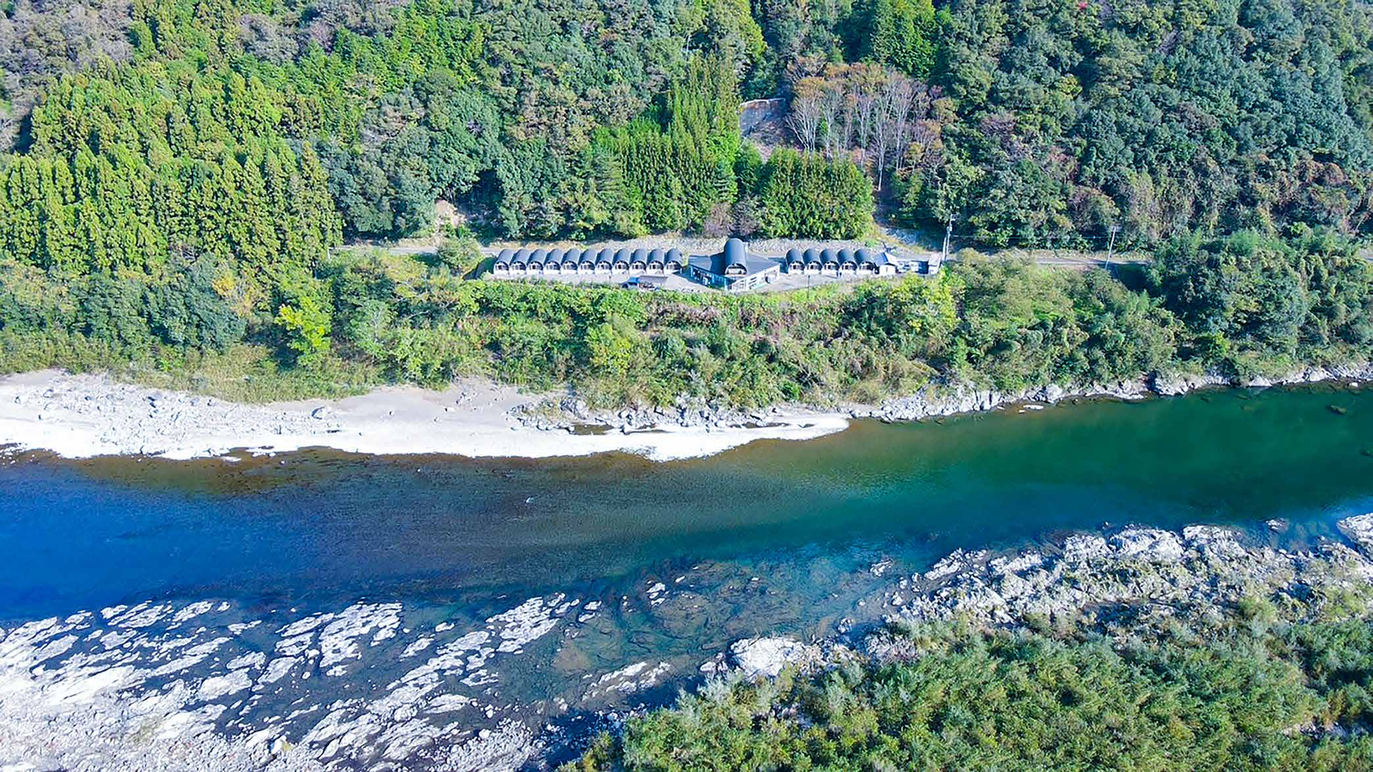
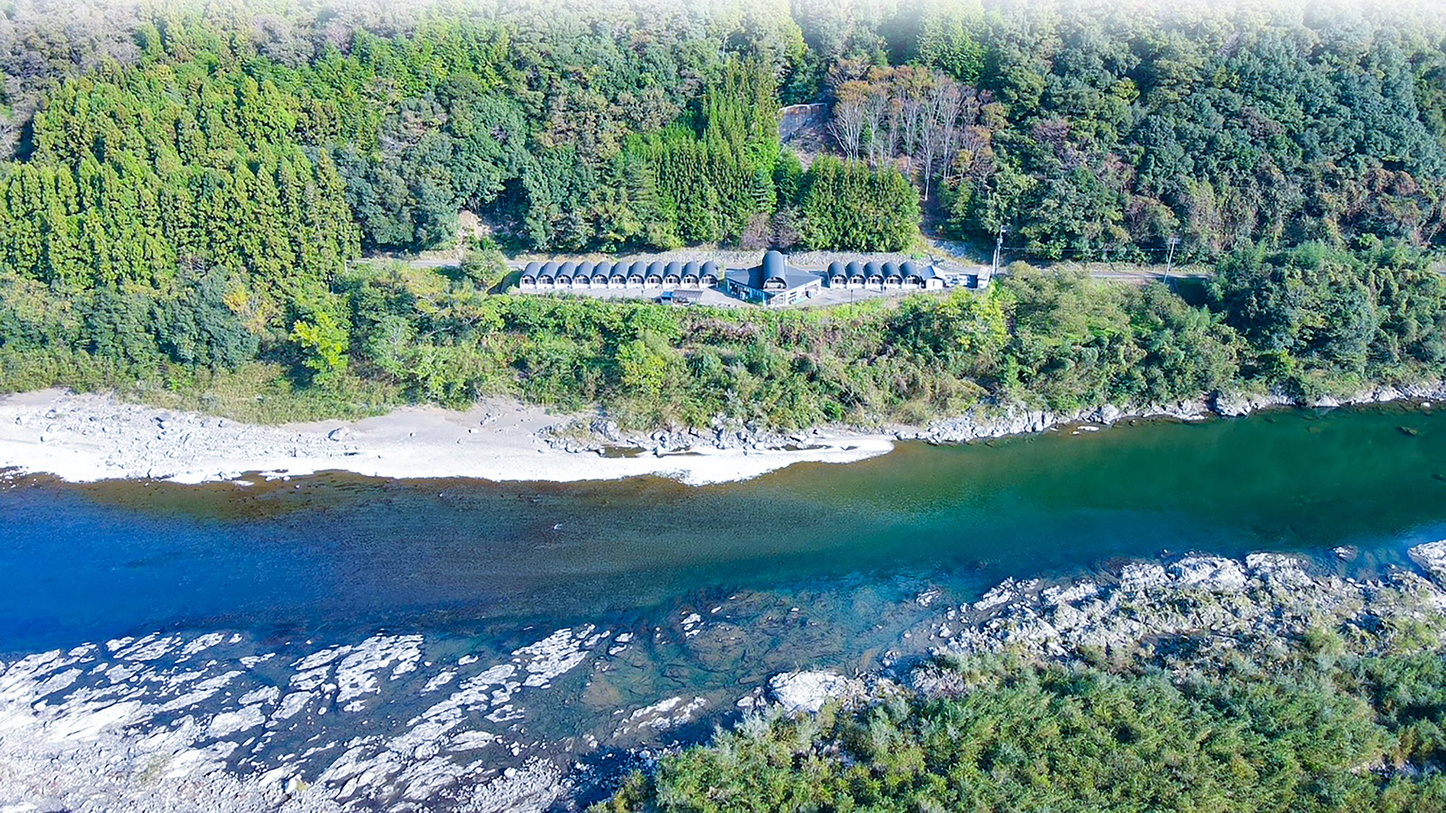
写真9点を大村さん提供の元データに差し替え、「要・元データ」の印を外した
- 共用キッチン・炊飯器・コインランドリー・キャビン玄関（室内）：パンフのEPSから
  本体画像を取り出して差し替え（153px前後 → 930〜1400px）
- ヒーロー2点・青空のキャビン・南向きの列・外観も元データに差し替え
- 差し替えた4点の figure から lowres を外した
- 埋め込み時の長辺を1600→1400に（確認用1ファイルが6.6MB→5.7MB）
- 差し替え前の9点は 01_プロジェクト/…/新サイト用画像/差し替え前_2026-09-28/ に退避

diff --git a/index.html b/index.html
@@ -264,7 +264,7 @@
           <img src="./images/room-arch.jpg" alt="アーチ天井と大きな窓のあるキャビンの内部" loading="lazy">
           <figcaption>かまぼこ型のアーチが、そのまま天井になっています</figcaption>
         </figure>
-        <figure class="ph lowres">
+        <figure class="ph">
           <img src="./images/cabin-entrance-view.jpg" alt="玄関から見たキャビンの中。天然木のフローリングと窓" loading="lazy">
           <figcaption>玄関を入ると約6畳の天然木のフローリング。陽当たり抜群の明るいお部屋</figcaption>
         </figure>
@@ -349,15 +349,15 @@
       </div>
 
       <div class="common-sub">
-        <figure class="ph lowres">
+        <figure class="ph">
           <img src="./images/flyer-common-kitchen.jpg" alt="冷蔵庫と調理台のある共用キッチン" loading="lazy">
           <figcaption>共用キッチン。調理道具も食器もそろっています</figcaption>
         </figure>
-        <figure class="ph lowres">
+        <figure class="ph">
           <img src="./images/flyer-rice-cookers.jpg" alt="炊飯器・電子レンジ・トースターの並ぶ調理台" loading="lazy">
           <figcaption>炊飯器・電子レンジ・トースター</figcaption>
         </figure>
-        <figure class="ph lowres">
+        <figure class="ph">
           <img src="./images/flyer-laundry.jpg" alt="洗濯機と乾燥機の並ぶコインランドリー" loading="lazy">
           <figcaption>大型の洗濯乾燥コインランドリー（洗剤付）</figcaption>
         </figure>

diff --git a/build_share.py b/build_share.py
@@ -220,7 +220,10 @@ IMG_REF = re.compile(r'(?:(?:src|href)=(["\'])|url\(\s*(["\']?))(\.?/?images/[^"
 # 埋め込むとき、この大きさを超えるJPEGだけ作り直す（1ファイルが重くなりすぎないように）
 # 元の images/ のファイルには手を触れない。作り直すのは埋め込む中身だけ。
 SHRINK_OVER_BYTES = 150 * 1024
-MAX_EDGE = 1600
+# 2026-09-28：元データに差し替えて1ファイルが6.6MBになったので、埋め込む側だけ1400に下げた。
+# スマホで開く確認用ファイルなので、画面の横幅（〜430pt×3倍＝約1290px）に足りていればよい。
+# サイト本体の images/ は大きいまま。
+MAX_EDGE = 1400
 JPEG_QUALITY = 82
 
 
